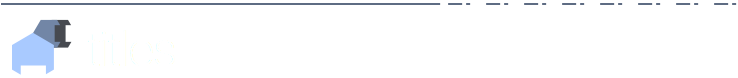
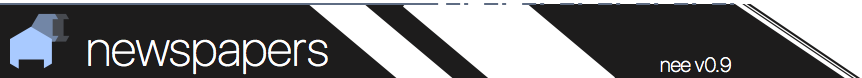
fixed issue with results and timeline design changes titles

diff --git a/public/javascripts/Results.js b/public/javascripts/Results.js
@@ -182,7 +182,8 @@ var resultDummy = function()
                 __p.fill(255)
                 __p.textFont(__fontThin);
                 __p.textSize(12);
-                __p.text(_content.TITLE, 10,50, _size.w,20)
+                __p.textAlign(__p.LEFT, __p.TOP)
+                __p.text(_content.TITLE, 11,47, _size.w,20)
 
                 __p.textFont(__fontHeavy);
                 var year = new Date(_content.DATE).getFullYear();
@@ -195,7 +196,8 @@ var resultDummy = function()
                 var rgb = tinycolor(colorNew).toRgb();
                 __p.fill(__p.color(rgb.r, rgb.g, rgb.b))
                 __p.textSize(12);
-                __p.text(year,13,40)
+                __p.textAlign(__p.LEFT, __p.TOP)
+                __p.text(year,14,30)
                 __p.popMatrix();
             }
 
@@ -297,6 +299,7 @@ var ResultsHandler = function()
     var _maxYear = 0;
     var _minYear = 5000;
     var _offset = {x:0, y:0};
+    var _MAX = 35;
 
     socket.on("resultUpdate", function(msg)
     {
@@ -339,7 +342,7 @@ var ResultsHandler = function()
         "init" : function()
         {
             document.querySelector("canvas").getContext("2d").scale(2, 2);
-            _offset.y = 80;
+            _offset.y = 50;
             if(_imgTitle == undefined)
             {
                 _imgTitle = __p.loadImage("/ecloud/images/title_results.png");
@@ -448,17 +451,20 @@ var ResultsHandler = function()
                     selected = true;
                 r.draw(selected);
             })
-            __p.fill(parseInt(colors[1]));
-            __p.textFont(__fontHeavy);
-            __p.textSize(40);
-            //var screenWidth =  $("#" + __canvas).width();
-            var screenHeight = $("#" + __canvas).height();
+            __p.fill(200);
 
-            __p.text(_nrOfResults,10,screenHeight-20);
+            __p.textFont(__fontHeavy);
+            __p.textSize(20);
+            __p.text("#",10,-37);
+            __p.fill(parseInt(colors[1]));
+            __p.textSize(40);
+            __p.textAlign(__p.LEFT, __p.TOP)
+            __p.text(_nrOfResults,26,-50);
             __p.popMatrix();
             __p.pushMatrix();
             __p.scale(.5)
-            __p.image(_imgTitle, 10,0)
+            var h = $(window).height()*2;
+            __p.image(_imgTitle, 10,h-120)
             __p.popMatrix();
 
 

diff --git a/public/javascripts/Timeline.js b/public/javascripts/Timeline.js
@@ -43,8 +43,9 @@ var TimeLine = function()
             for (var i = 3; i >= 0; i--) {
                 var h = i * (_size.h - paddingBottom) / 4;
                 if (i != 0)__p.line(0, h, _size.w, h);
-
-                __p.text(parseInt((_size.h - h) / _size.h * _max), _size.w + 5, h)
+                var nr = (_size.h - h) / _size.h * _max;
+                //nr = nr > 1 ? Math.log(nr) : (nr > 0 ? .05 : 0);
+                __p.text(parseInt(nr), _size.w + 5, h)
             }
         }
         __p.textAlign(__p.LEFT,__p.BOTTOM)
@@ -62,12 +63,15 @@ var TimeLine = function()
                 __p.fill(255);
 
                 if (i % 20 == 0) {
+                    __p.stroke(255);
                     __p.line(0, -9, 0, -7);
                     __p.textSize(8);
-                    __p.text(year, 0, 0);
+                    __p.text(year, 0, 5);
                 }
-                else
+                else {
+                    __p.stroke(0xCC404853);
                     __p.line(0, -9, 0, -9);
+                }
                 __p.popMatrix();
             }
         }
@@ -88,11 +92,14 @@ var TimeLine = function()
                     __p.fill(color);
                 __p.noStroke();
 
-               var logCount = count > 1 ? Math.log(count) : (count > 0 ? .05 : 0);
+               /*var logCount = count > 1 ? Math.log(count) : (count > 0 ? .05 : 0);
                var logprevCount = prevCount > 1 ? Math.log(prevCount) : (prevCount > 0 ? .05 : 0);
 
                 var height = logCount/Math.log(_max) * heightOfGraph;
-                var previousHeight = logprevCount/Math.log(_max) * heightOfGraph;
+                var previousHeight = logprevCount/Math.log(_max) * heightOfGraph;*/
+                var height = count/_max * heightOfGraph;
+                var previousHeight = prevCount/_max * heightOfGraph;
+                if(height < 1 && height > 0) height =1;
                 height = (_tween) * height + (1.0-_tween) * previousHeight;
                 __p.rectMode(__p.CORNER);
                 __p.rect(yearOffset * _widthPerYear,_size.h-paddingBottom, 2, - height );
